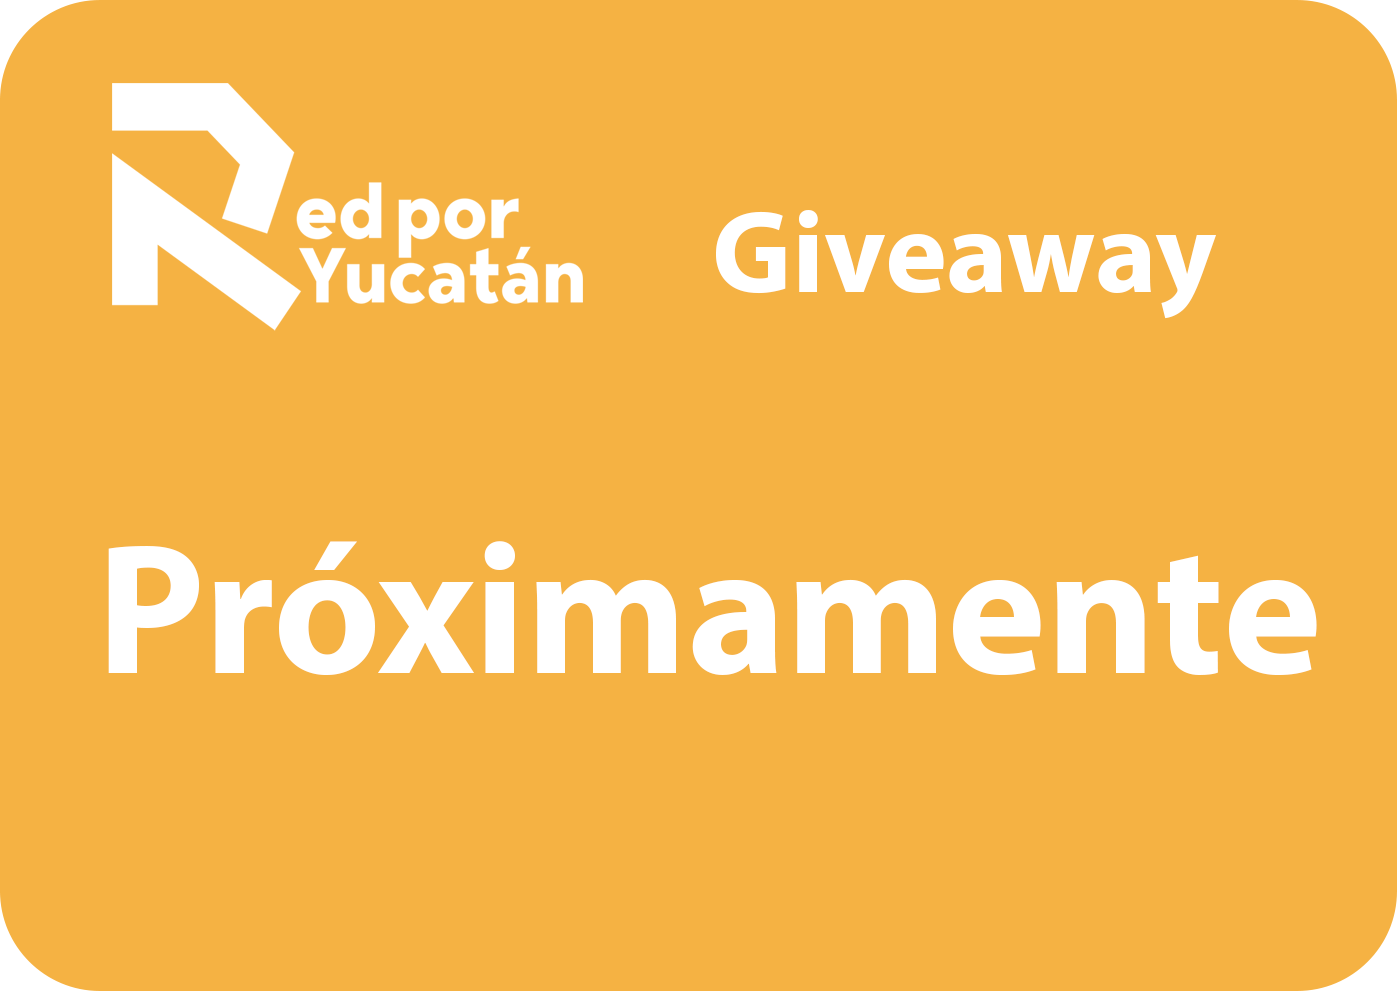
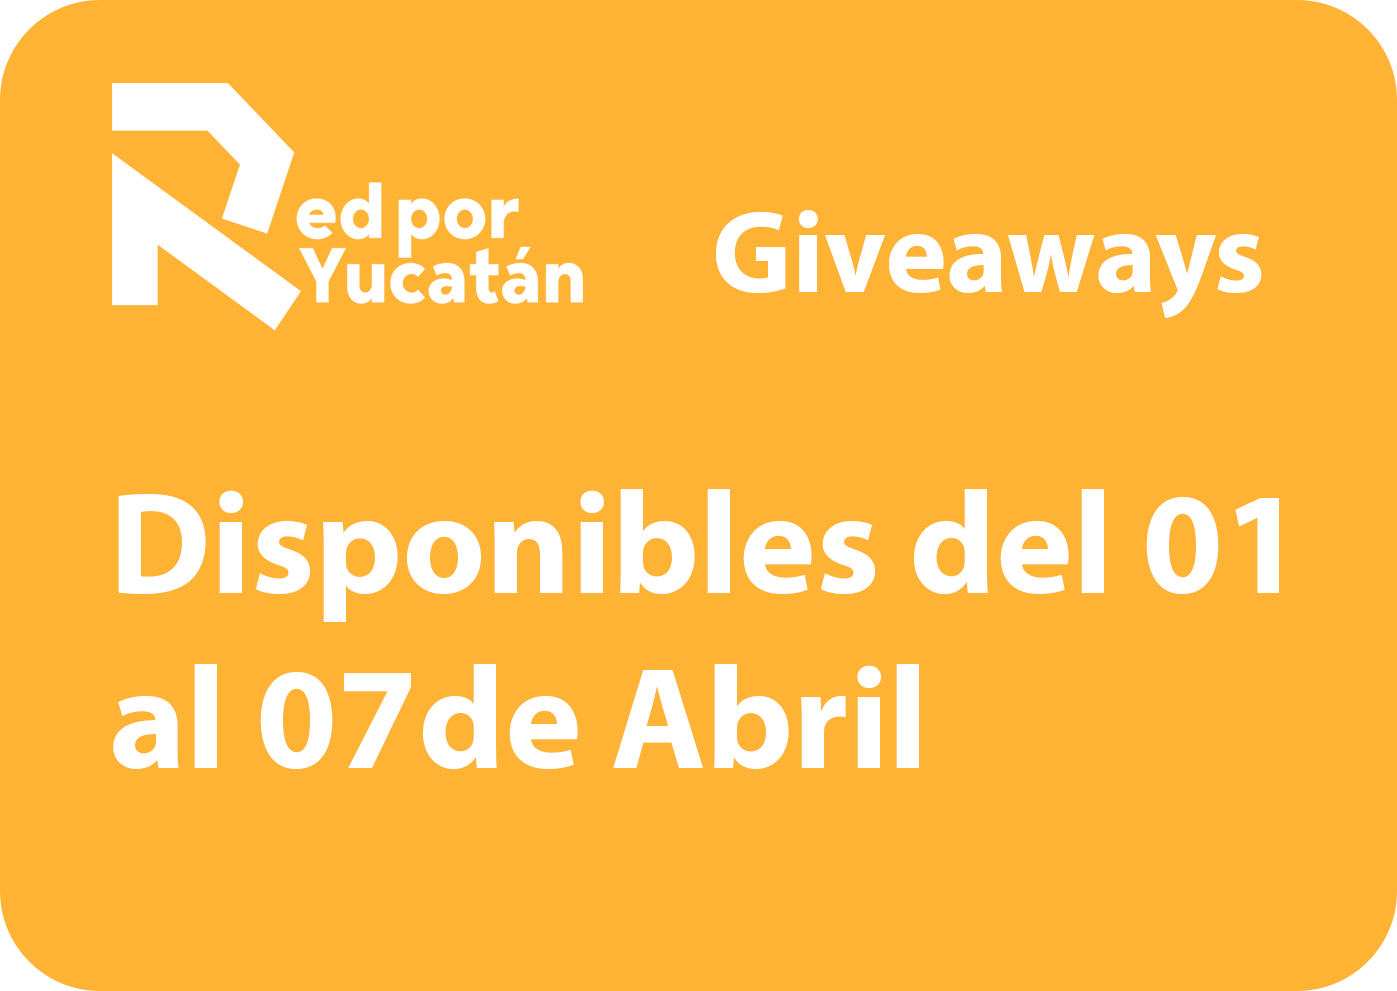
Update

Changed region(s): [[0.0616, 0.4844, 0.9542, 0.7871], [0.8618, 0.2422, 0.9234, 0.3027]]

diff --git a/GV4Home.html b/GV4Home.html
@@ -1,0 +1,91 @@
+<!DOCTYPE html>
+<html dir="ltr" lang="es">
+<head>
+
+	<title>Red por Yucatán</title>
+    <meta http-equiv="content-type" content="text/html; charset=utf-8" />
+    <meta name="viewport" content="width=device-width, initial-scale=1" />
+    <meta name="author" content="Red por Yucatán" />
+    <meta name="description" content="Red por Yucatán">
+
+    <link rel="icon" href="rxy-icon.png">
+
+
+	<!-- Stylesheets
+	============================================= -->
+	<link href="https://fonts.googleapis.com/css?family=Lato:300,400,400i,700|Sofia+Sans+Condensed:300,400,500,600,700|Poppins:300,400,500,600,700|PT+Serif:400,400i&display=swap" rel="stylesheet" type="text/css" />
+	<link rel="stylesheet" href="css/bootstrap.css" type="text/css" />
+	<link rel="stylesheet" href="style.css" type="text/css" />
+
+	
+</head>
+
+
+<body class="stretched" style="background-color: #000000;">
+
+
+	<!-- The Main Wrapper
+	============================================= -->
+	<div id="wrapper" class="clearfix" style="background-color: #3f5df5;">
+
+		<div style="background-color: #3f5df5; height: 150px;">
+			<!--<img style="width: 250px; max-height: 250px; filter: drop-shadow(5px 5px 5px rgb(0, 0, 0));" src="images/rxy-logo.png">-->			
+			<a href="https://redporyuc.github.io/Giveaway/" type="button"> <img style="width: 250px; max-height: 250px; filter: drop-shadow(5px 5px 5px rgb(0, 0, 0));" src="images/rxy-logo.png"> </a>
+
+		</div>
+
+		<!-- Dynamic
+		============================================= -->		
+		<section id="page-title" style="background-color: #ffffff; border-top: 3px solid #001683;">
+
+		
+					<div class="container">
+						<h2 style="text-align: center; color: rgb(40, 40, 40); font-family: sans-serif; font-weight: bold;">
+							Giveaways
+							<br>
+							<p style="font-size: large; margin: auto; text-align: center; color: rgb(90, 90, 90); font-family: sans-serif;">
+								del 01 al 07 de abril 
+							</p>
+						</h2>	
+
+						<br>
+						<br>
+						<br>
+
+						<div class="center">
+							<!--<a href="#" class="button button-border button-circle button-gold" data-easing="easeInOutExpo" data-speed="1250" data-offset="70">Entra a la Experiencia</a>-->	
+							<a href="GV4-1.html" type="button"> <img style="width: 250px; max-height: 250px; margin: 15px; filter: drop-shadow(5px 5px 5px rgb(0, 0, 0));" src="images/GV4-1.png"></a>
+							<a href="GV4-2.html" type="button"> <img style="width: 250px; max-height: 250px; margin: 15px; filter: drop-shadow(5px 5px 5px rgb(0, 0, 0));" src="images/GV4-2.png"></a> 							 							
+							<a href="GV4-3.html" type="button"> <img style="width: 250px; max-height: 250px; margin: 15px; filter: drop-shadow(5px 5px 5px rgb(0, 0, 0));" src="images/GV4-3.png"></a> 							 							
+							<!--<a href="GV2-3.html" type="button"> <img style="width: 250px; max-height: 250px; margin: 15px; filter: drop-shadow(5px 5px 5px rgb(0, 0, 0));" src="images/GV2-3.png"></a> 							
+							<a href="GV2-4.html" type="button"> <img style="width: 250px; max-height: 250px; margin: 15px; filter: drop-shadow(5px 5px 5px rgb(0, 0, 0));" src="images/GV2-4.png"></a> 							
+							<a href="GV2-5.html" type="button"> <img style="width: 250px; max-height: 250px; margin: 15px; filter: drop-shadow(5px 5px 5px rgb(0, 0, 0));" src="images/GV2-5.png"></a>
+							<a href="#" type="button"> <img style="width: 250px; max-height: 250px; margin: 15px; filter: drop-shadow(5px 5px 5px rgb(0, 0, 0));" src="images/GV2Proximamente.png"></a>						
+							<a href="#" type="button"> <img style="width: 250px; max-height: 250px; margin: 15px; filter: drop-shadow(5px 5px 5px rgb(0, 0, 0));" src="images/GV2Proximamente.png"></a> 							
+							<a href="#" type="button"> <img style="width: 250px; max-height: 250px; margin: 15px; filter: drop-shadow(5px 5px 5px rgb(0, 0, 0));" src="images/GV2Proximamente.png"></a>-->							
+						</div>
+
+
+					</div>		
+										
+				</section>
+
+		
+		<!-- Footer
+		============================================= -->
+		<footer id="footer" class="dark">
+			<div class="container">
+		
+				<!-- Add something cool later, maybe twitter preview posts -->
+				<div style="margin: 80px;"></div>
+
+			</div>
+		</footer>
+		<!-- Footer end -->
+
+	</div>
+
+	
+
+</body>
+</html>

diff --git a/GV4-1.html b/GV4-1.html
@@ -1,0 +1,68 @@
+<!DOCTYPE html>
+<html dir="ltr" lang="es">
+<head>
+
+	<title>Red por Yucatán</title>
+    <meta http-equiv="content-type" content="text/html; charset=utf-8" />
+    <meta name="viewport" content="width=device-width, initial-scale=1" />
+    <meta name="author" content="Red por Yucatán" />
+    <meta name="description" content="Red por Yucatán">
+
+    <link rel="icon" href="rxy-icon.png">
+
+
+	<!-- Stylesheets
+	============================================= -->
+	<link href="https://fonts.googleapis.com/css?family=Lato:300,400,400i,700|Sofia+Sans+Condensed:300,400,500,600,700|Poppins:300,400,500,600,700|PT+Serif:400,400i&display=swap" rel="stylesheet" type="text/css" />
+	<link rel="stylesheet" href="css/bootstrap.css" type="text/css" />
+	<link rel="stylesheet" href="style.css" type="text/css" />
+
+	
+</head>
+
+
+<body class="stretched" style="background-color: #000000;">
+
+
+	<!-- The Main Wrapper
+	============================================= -->
+	<div id="wrapper" class="clearfix" style="background-color: #3f5df5;">
+
+		<div style="background-color: #3f5df5; height: 150px;">
+			<!--<img style="width: 250px; max-height: 250px; filter: drop-shadow(5px 5px 5px rgb(0, 0, 0));" src="images/rxy-logo.png">-->			
+			<a href="https://redporyuc.github.io/Giveaway/" type="button"> <img style="width: 250px; max-height: 250px; filter: drop-shadow(5px 5px 5px rgb(0, 0, 0));" src="images/rxy-logo.png"> </a>					
+		</div>
+
+		<!-- Dynamic
+		============================================= -->		
+		<section id="page-title" style="background-color: #eeeeee; border-top: 3px solid #001683;">
+
+			<div id="79109-wv7bxq5c" class="sw_container"></div><script type="text/javascript" src="https://sweepwidget.com/w/j/w_init.js"></script>
+					
+		</section>
+
+		
+		<!-- Footer
+		============================================= -->
+		<footer id="footer" class="dark">
+			<div class="container">
+		
+				<!-- Add something cool later, maybe twitter preview posts -->
+				<div style="margin: 30px;"></div>
+			</div>
+		</footer>
+		<!-- Footer end -->
+
+	</div>
+
+
+
+	<!-- Go To Top
+	============================================= -->
+	<div id="gotoTop" class="icon-angle-up"></div>
+
+	
+	
+
+</body>
+</html>

diff --git a/GV4-2.html b/GV4-2.html
@@ -1,0 +1,68 @@
+<!DOCTYPE html>
+<html dir="ltr" lang="es">
+<head>
+
+	<title>Red por Yucatán</title>
+    <meta http-equiv="content-type" content="text/html; charset=utf-8" />
+    <meta name="viewport" content="width=device-width, initial-scale=1" />
+    <meta name="author" content="Red por Yucatán" />
+    <meta name="description" content="Red por Yucatán">
+
+    <link rel="icon" href="rxy-icon.png">
+
+
+	<!-- Stylesheets
+	============================================= -->
+	<link href="https://fonts.googleapis.com/css?family=Lato:300,400,400i,700|Sofia+Sans+Condensed:300,400,500,600,700|Poppins:300,400,500,600,700|PT+Serif:400,400i&display=swap" rel="stylesheet" type="text/css" />
+	<link rel="stylesheet" href="css/bootstrap.css" type="text/css" />
+	<link rel="stylesheet" href="style.css" type="text/css" />
+
+	
+</head>
+
+
+<body class="stretched" style="background-color: #000000;">
+
+
+	<!-- The Main Wrapper
+	============================================= -->
+	<div id="wrapper" class="clearfix" style="background-color: #3f5df5;">
+
+		<div style="background-color: #3f5df5; height: 150px;">
+			<!--<img style="width: 250px; max-height: 250px; filter: drop-shadow(5px 5px 5px rgb(0, 0, 0));" src="images/rxy-logo.png">-->			
+			<a href="https://redporyuc.github.io/Giveaway/" type="button"> <img style="width: 250px; max-height: 250px; filter: drop-shadow(5px 5px 5px rgb(0, 0, 0));" src="images/rxy-logo.png"> </a>					
+		</div>
+
+		<!-- Dynamic
+		============================================= -->		
+		<section id="page-title" style="background-color: #eeeeee; border-top: 3px solid #001683;">
+
+			<div id="79115-t4j178fy" class="sw_container"></div><script type="text/javascript" src="https://sweepwidget.com/w/j/w_init.js"></script>
+					
+		</section>
+
+		
+		<!-- Footer
+		============================================= -->
+		<footer id="footer" class="dark">
+			<div class="container">
+		
+				<!-- Add something cool later, maybe twitter preview posts -->
+				<div style="margin: 30px;"></div>
+			</div>
+		</footer>
+		<!-- Footer end -->
+
+	</div>
+
+
+
+	<!-- Go To Top
+	============================================= -->
+	<div id="gotoTop" class="icon-angle-up"></div>
+
+	
+	
+
+</body>
+</html>

diff --git a/GV4-3.html b/GV4-3.html
@@ -1,0 +1,68 @@
+<!DOCTYPE html>
+<html dir="ltr" lang="es">
+<head>
+
+	<title>Red por Yucatán</title>
+    <meta http-equiv="content-type" content="text/html; charset=utf-8" />
+    <meta name="viewport" content="width=device-width, initial-scale=1" />
+    <meta name="author" content="Red por Yucatán" />
+    <meta name="description" content="Red por Yucatán">
+
+    <link rel="icon" href="rxy-icon.png">
+
+
+	<!-- Stylesheets
+	============================================= -->
+	<link href="https://fonts.googleapis.com/css?family=Lato:300,400,400i,700|Sofia+Sans+Condensed:300,400,500,600,700|Poppins:300,400,500,600,700|PT+Serif:400,400i&display=swap" rel="stylesheet" type="text/css" />
+	<link rel="stylesheet" href="css/bootstrap.css" type="text/css" />
+	<link rel="stylesheet" href="style.css" type="text/css" />
+
+	
+</head>
+
+
+<body class="stretched" style="background-color: #000000;">
+
+
+	<!-- The Main Wrapper
+	============================================= -->
+	<div id="wrapper" class="clearfix" style="background-color: #3f5df5;">
+
+		<div style="background-color: #3f5df5; height: 150px;">
+			<!--<img style="width: 250px; max-height: 250px; filter: drop-shadow(5px 5px 5px rgb(0, 0, 0));" src="images/rxy-logo.png">-->			
+			<a href="https://redporyuc.github.io/Giveaway/" type="button"> <img style="width: 250px; max-height: 250px; filter: drop-shadow(5px 5px 5px rgb(0, 0, 0));" src="images/rxy-logo.png"> </a>					
+		</div>
+
+		<!-- Dynamic
+		============================================= -->		
+		<section id="page-title" style="background-color: #eeeeee; border-top: 3px solid #001683;">
+
+			<div id="79116-dzsw18qj" class="sw_container"></div><script type="text/javascript" src="https://sweepwidget.com/w/j/w_init.js"></script>
+					
+		</section>
+
+		
+		<!-- Footer
+		============================================= -->
+		<footer id="footer" class="dark">
+			<div class="container">
+		
+				<!-- Add something cool later, maybe twitter preview posts -->
+				<div style="margin: 30px;"></div>
+			</div>
+		</footer>
+		<!-- Footer end -->
+
+	</div>
+
+
+
+	<!-- Go To Top
+	============================================= -->
+	<div id="gotoTop" class="icon-angle-up"></div>
+
+	
+	
+
+</body>
+</html>

diff --git a/index.html b/index.html
@@ -56,7 +56,7 @@
 							<a href="GV1Home.html" type="button"> <img style="width: 250px; max-height: 250px; margin: 15px; filter: drop-shadow(5px 5px 5px rgb(0, 0, 0));" src="images/GV1.png"></a> 							
 							<a href="GV2Home.html" type="button"> <img style="width: 250px; max-height: 250px; margin: 15px; filter: drop-shadow(5px 5px 5px rgb(0, 0, 0));" src="images/GV2.png"></a> 							
 							<a href="GV3Home.html" type="button"> <img style="width: 250px; max-height: 250px; margin: 15px; filter: drop-shadow(5px 5px 5px rgb(0, 0, 0));" src="images/GV3.png"></a> 							
-							<a href="#" type="button"> <img style="width: 250px; max-height: 250px; margin: 15px; filter: drop-shadow(5px 5px 5px rgb(0, 0, 0));" src="images/GV4.png"></a> 							
+							<a href="GV4Home.html" type="button"> <img style="width: 250px; max-height: 250px; margin: 15px; filter: drop-shadow(5px 5px 5px rgb(0, 0, 0));" src="images/GV4.png"></a> 							
 							<a href="#" type="button"> <img style="width: 250px; max-height: 250px; margin: 15px; filter: drop-shadow(5px 5px 5px rgb(0, 0, 0));" src="images/GV5.png"></a> 							
 							<a href="#" type="button"> <img style="width: 250px; max-height: 250px; margin: 15px; filter: drop-shadow(5px 5px 5px rgb(0, 0, 0));" src="images/GV6.png"></a> 							
 
